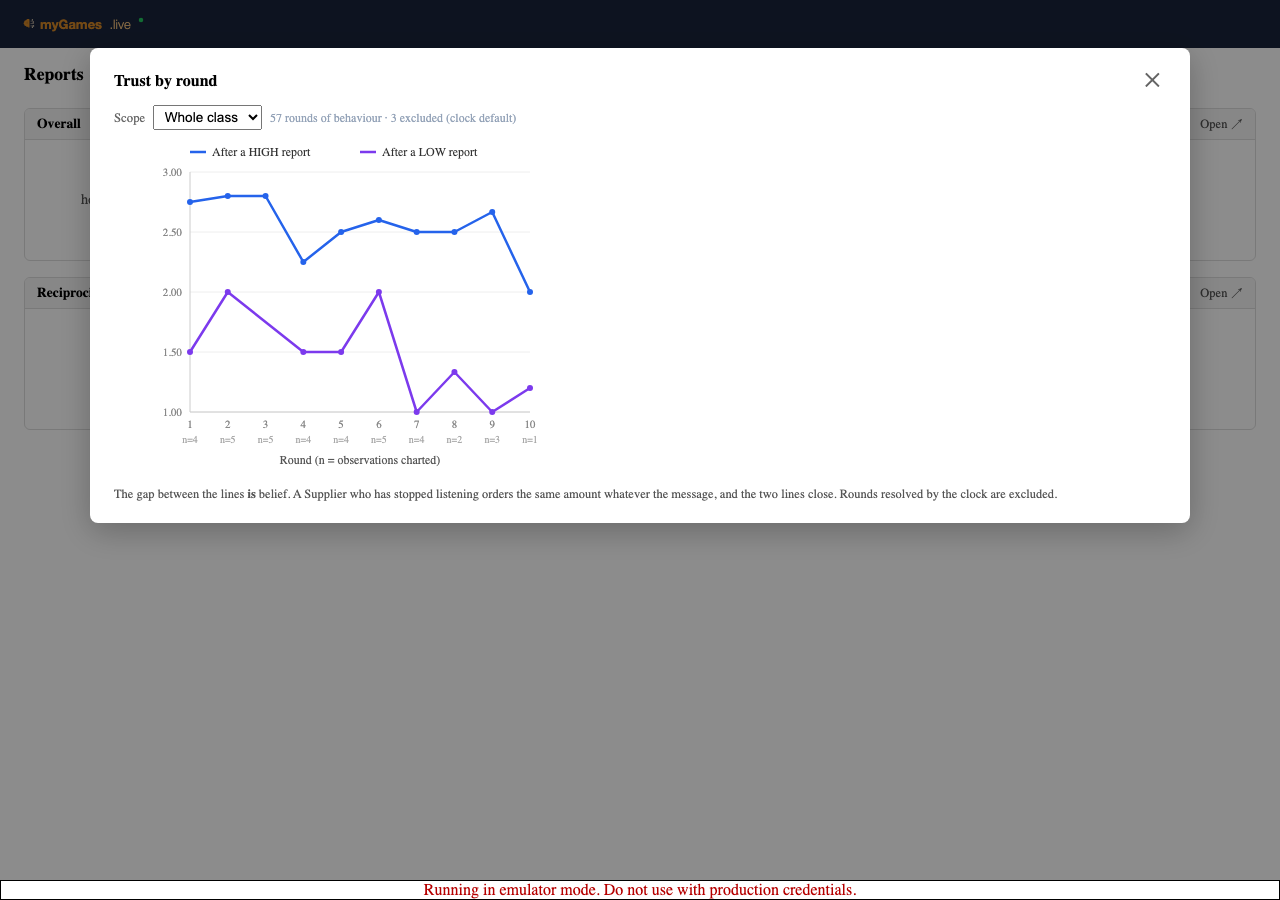
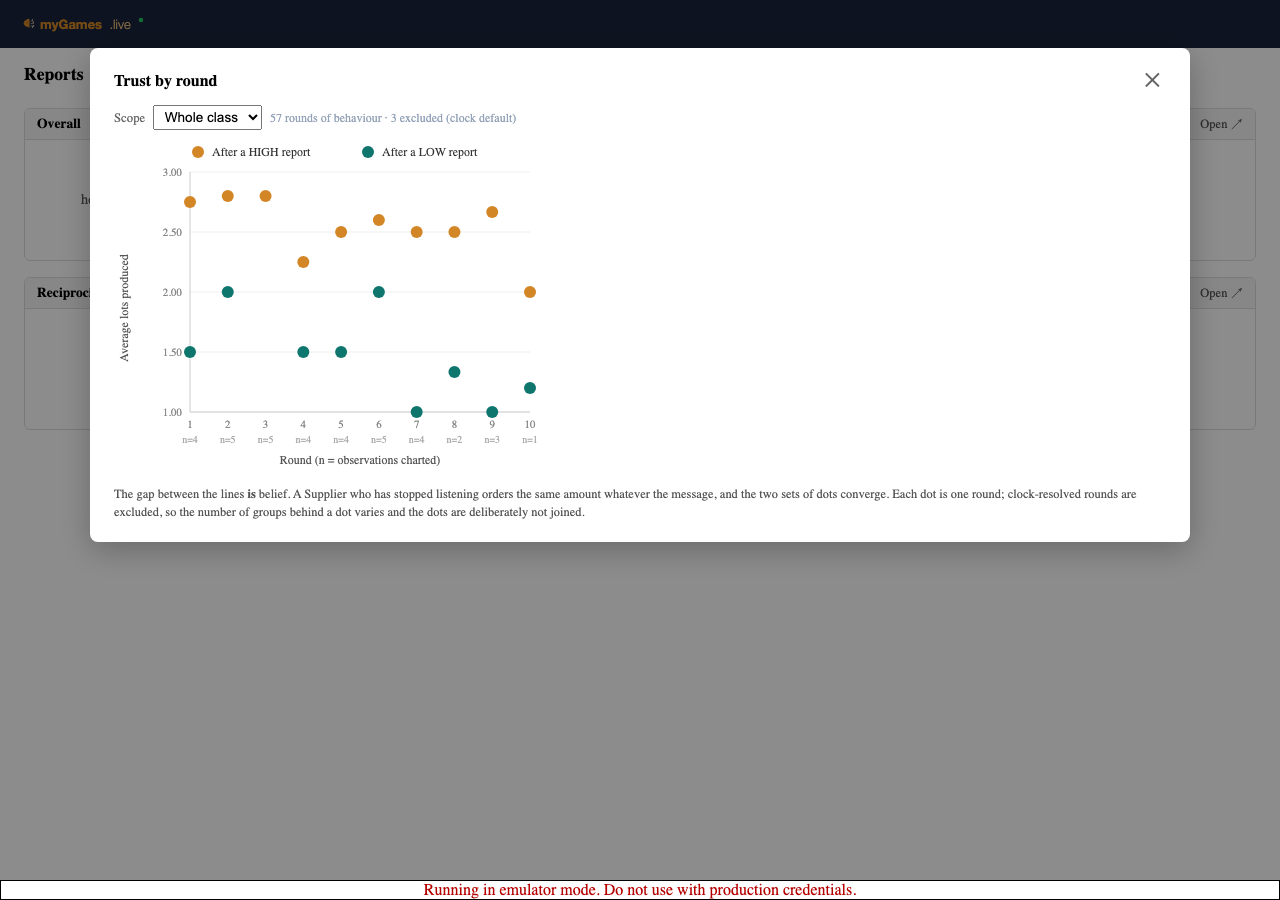
infoshare: panel above the roster; charts read as dots with one colour per concept
LAYOUT. Control strip moves to game-ui's underHeadline slot — directly under
the headline, above the roster, matching crisis and eBay.

CHARTS.
  ONE COLOUR PER CONCEPT across the whole page. HIGH is always the house orange
  and LOW always teal, in both series charts and every legend. The same idea
  changing colour between charts makes a reader re-learn the key, and on a
  projector they will not.
  DOTS, NOT LINES, at r=6. Each round's value comes from a different subset of
  groups, so joining them would assert continuity that does not exist.
  EVERY Y-AXIS LABELLED: 'Proportion of reports that were truthful', 'Average
  lots produced', and both scatter axes spelled out.

Captions rewritten to match: they still said 'the grey line' and 'the orange
line is the game' after the colours changed and the lines were removed — prose
describing a chart that no longer existed.

SCREENSHOTS. api.ts now threads the dashboard's _dev_game_instance_id into
every callable in DEV. The shared dashboard establishes a session from that
param, but the per-game instructor callables resolve their instance from the
CALL, so the control strip answered 'Missing token' against a perfectly good
session — which is why it showed '0 groups' in the review screenshot while
working in production. The strip now populates and the layout is visible.

diff --git a/frontend/src/reports/Charts.tsx b/frontend/src/reports/Charts.tsx
@@ -8,8 +8,19 @@ import type { Series, PairPoint } from './analytics'
 // Pricing uses — so infoshare's charts are not a different generation of picture.
 // ═══════════════════════════════════════════════════════════════════════════════
 
-const RETAILER = '#D38626'   // the house orange
-const SUPPLIER = '#2563eb'
+// ⚠ ONE COLOUR PER CONCEPT, ACROSS EVERY CHART ON THE PAGE.
+// HIGH is always this orange and LOW is always this teal — in the trustworthiness
+// series, in the trust series, in the scatter and in every legend. When the same idea
+// changes colour between two charts a reader has to re-learn the key each time, and on a
+// projector they will not.
+export const HIGH_COLOUR = '#D38626'   // the house orange
+export const LOW_COLOUR  = '#0f766e'   // teal — distinct from orange in mono and to most
+                                       // colour-blind viewers
+/** Anything that is neither HIGH nor LOW (the scatter's pair dots). */
+export const NEUTRAL_COLOUR = '#475569'
+
+/** Big enough to read projected — these charts are used in a lecture theatre. */
+const DOT = 6
 
 const toPoints = (s: Series) => s.map((p) => ({ round: p.round, value: p.value, n: p.n }))
 
@@ -24,9 +35,12 @@ export function TrustworthinessChart({ data, scope }: { data: { trueHigh: Series
   return (
     <RoundSeriesChart
       series={[
-        { key: 'trueLow', label: 'Demand was LOW', color: RETAILER, points: toPoints(data.trueLow) },
-        { key: 'trueHigh', label: 'Demand was HIGH', color: '#94a3b8', points: toPoints(data.trueHigh) },
+        { key: 'trueLow', label: 'Demand was LOW', color: LOW_COLOUR, points: toPoints(data.trueLow) },
+        { key: 'trueHigh', label: 'Demand was HIGH', color: HIGH_COLOUR, points: toPoints(data.trueHigh) },
       ]}
+      markersOnly
+      dotRadius={DOT}
+      yAxisLabel="Proportion of reports that were truthful"
       yDomain={[0, 1]}
       formatValue={(v) => `${Math.round(v * 100)}%`}
       ariaLabel={`Proportion of reports matching the true demand type, by round — ${scope}`}
@@ -34,10 +48,12 @@ export function TrustworthinessChart({ data, scope }: { data: { trueHigh: Series
       countSeriesKey="trueLow"
       caption={
         <>
-          A Retailer never loses by reporting HIGH when demand really is HIGH, so the grey
-          line is near the top almost by construction. <strong>The orange line is the
-          game</strong> — telling the truth about LOW is what costs something.
-          Rounds resolved by the clock are excluded.
+          A Retailer never loses by reporting HIGH when demand really is HIGH, so the
+          <strong> orange</strong> dots sit near the top almost by construction.
+          <strong> The teal dots are the game</strong> — telling the truth about LOW is
+          what costs something. Each dot is one round; clock-resolved rounds are excluded,
+          so the number of groups behind a dot varies and the dots are deliberately not
+          joined.
         </>
       }
     />
@@ -53,9 +69,12 @@ export function TrustChart({ data, scope }: { data: { afterHigh: Series; afterLo
   return (
     <RoundSeriesChart
       series={[
-        { key: 'afterHigh', label: 'After a HIGH report', color: SUPPLIER, points: toPoints(data.afterHigh) },
-        { key: 'afterLow', label: 'After a LOW report', color: '#7c3aed', points: toPoints(data.afterLow) },
+        { key: 'afterHigh', label: 'After a HIGH report', color: HIGH_COLOUR, points: toPoints(data.afterHigh) },
+        { key: 'afterLow', label: 'After a LOW report', color: LOW_COLOUR, points: toPoints(data.afterLow) },
       ]}
+      markersOnly
+      dotRadius={DOT}
+      yAxisLabel="Average lots produced"
       yDomain={[1, 3]}
       formatValue={(v) => v.toFixed(2)}
       ariaLabel={`Average production by report received, by round — ${scope}`}
@@ -64,8 +83,9 @@ export function TrustChart({ data, scope }: { data: { afterHigh: Series; afterLo
       caption={
         <>
           The gap between the lines <strong>is</strong> belief. A Supplier who has stopped
-          listening orders the same amount whatever the message, and the two lines close.
-          Rounds resolved by the clock are excluded.
+          listening orders the same amount whatever the message, and the two sets of dots
+          converge. Each dot is one round; clock-resolved rounds are excluded, so the number
+          of groups behind a dot varies and the dots are deliberately not joined.
         </>
       }
     />
@@ -108,17 +128,17 @@ export function ReciprocityScatter({ points }: { points: PairPoint[] }) {
         <line x1={PAD} y1={16} x2={PAD} y2={H - PAD} stroke="#999" />
         {plotted.map((p) => (
           <g key={p.groupId}>
-            <circle cx={x(p.truthAboutLow!)} cy={y(p.productionAfterLow!)} r={7} fill={RETAILER} fillOpacity={0.75} />
+            <circle cx={x(p.truthAboutLow!)} cy={y(p.productionAfterLow!)} r={9} fill={NEUTRAL_COLOUR} fillOpacity={0.8} />
             <text x={x(p.truthAboutLow!)} y={y(p.productionAfterLow!) + 3} fontSize="8"
               fill="#fff" textAnchor="middle" fontWeight="700">{p.groupNumber}</text>
           </g>
         ))}
         <text x={(W + PAD) / 2} y={H - 8} fontSize="11" fill="#444" textAnchor="middle">
-          Retailer: truth told about LOW
+          Retailer: proportion of LOW rounds reported truthfully
         </text>
         <text x={14} y={(H - PAD) / 2} fontSize="11" fill="#444" textAnchor="middle"
           transform={`rotate(-90 14 ${(H - PAD) / 2})`}>
-          Supplier: average order after LOW
+          Supplier: average lots produced after a LOW report
         </text>
       </svg>
       <p style={{ fontSize: '0.78rem', color: colors.textSecondary, margin: '0.4rem 0 0' }}>

diff --git a/frontend/src/api.ts b/frontend/src/api.ts
@@ -8,7 +8,27 @@ import type { OutcomeSchema } from './gameConfig'
 // auth.currentUser exists, and sends nothing when there is no session —
 // covering both bootstrap (getInstructorSession, assignRole) and authed calls.
 
+/**
+ * DEV ONLY: the `_dev_game_instance_id` the dashboard bootstraps with, threaded into
+ * every instructor call.
+ *
+ * The shared dashboard establishes a Firebase session from that query param, but the
+ * per-game instructor callables resolve their instance from the CALL, not the session,
+ * so without this they answer "Missing token" against a perfectly good session. In
+ * production the param does not exist and nothing is added — the classroom JWT or the
+ * Bearer session carries the identity, exactly as before.
+ *
+ * This is why the control strip showed "0 groups" in a dev screenshot while working in
+ * production: a harness gap, and this closes it.
+ */
+function devArgs(): object {
+  if (!import.meta.env.DEV) return {}
+  const iid = new URLSearchParams(window.location.search).get('_dev_game_instance_id')
+  return iid ? { _dev: { game_instance_id: iid } } : {}
+}
+
 async function callFn<T>(name: string, data: object = {}): Promise<T> {
+  data = { ...devArgs(), ...data }
   const fn = httpsCallable<object, T>(functions, name)
   const result = await fn(data)
   return result.data

diff --git a/frontend/src/pages/InstructorDashboard.tsx b/frontend/src/pages/InstructorDashboard.tsx
@@ -119,13 +119,13 @@ export default function InstructorDashboard() {
         scoreAndRecord={{ callableName: 'scoreAndRecord', label: 'Score & Record' }}
         beforeFinalize={confirmFinalize}
         /*
-          BELOW the roster, via the shared slot — not portaled above it.
-          The roster is the headline an instructor reads first; the game's own controls
-          and per-group status belong under it. Games written before `belowRoster`
-          existed portal to `main.firstChild` because that was the only anchor a portal
-          could reach, which is how "above" became the default by accident.
+          Directly under the headline and above the roster, via the shared slot.
+          The roster is long: on a full class, controls placed below it are off-screen.
+          crisis and eBay sit in the same region but get there by portaling into another
+          component's DOM — right place, fragile means. The slot is the same position
+          declared rather than reached for.
         */
-        belowRoster={<GameControlStrip />}
+        underHeadline={<GameControlStrip />}
       />
     </>
   )
